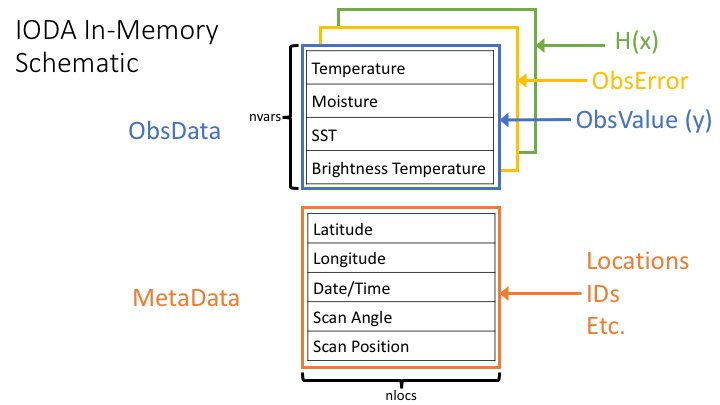
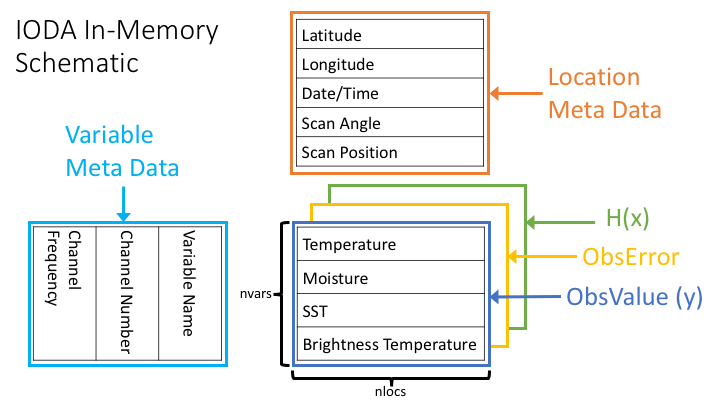
WIP: more progress with the interfaces section.

Changed region(s): [[0.0306, 0.0, 1.0, 1.0], [0.0917, 0.2963, 0.3056, 0.3556], [0.0917, 0.3852, 0.2444, 0.4444]]

diff --git a/docs/jedi-components/ioda/interface.rst b/docs/jedi-components/ioda/interface.rst
@@ -7,9 +7,12 @@ Background
 ----------
 
 IODA interacts with external observation data on one side and with the OOPS and UFO components of JEDI on the other side (:numref:`ioda-hlev-dflow`).
+On the observation data side there exist huge amounts of data, thus creating the need to pare these data down to a manageable size for JEDI during a particular DA run.
+The primary mechanism for accomplishing this is to filter out all of the observations that lie outside the current DA timing window, and present only that subset to be read into memory during a DA run.
 
-.. warning::
-   The IODA interfaces are newly formed and under much development at the time of the writing of this documentation, and as such are subject to change.
+There are many different types of observations that come with a variety of ways that the observation data are organized.
+To the extent that is feasible, it is desireable to devise a common data organization of which all of these observation types can employ.
+The memory representation of observation data in IODA has started with a prototype along these lines that successfully places a number of observation types (radiosonde, aircraft, AMSU-A, GNSSRO, plus several more) into a common organization.
 
 At this point, we have a prototype architecture defined for the handling of files containing observation data (:numref:`ioda-file-handling`).
 
@@ -28,7 +31,7 @@ This implementation is not quite in the form of the prototype architecture, but 
 Currently, we are using netcdf for the IODA Datafile format (subject to change) and we have a common netcdf writer in the ioda-converters with a collection of readers for the various observation data file formats.
 Work is in progress to evolve the current implementation to the prototype architecture.
 
-A prototype interface has been defined for access to observation data from the JEDI components OOPS and UFO.
+A prototype interface, using a common data organization (:numref:`ioda-inmem-schematic`, has been defined for access to observation data from the JEDI components OOPS and UFO.
 
 .. _ioda-inmem-schematic:
 .. figure:: images/IODA_InMemorySchematic.png
@@ -37,7 +40,10 @@ A prototype interface has been defined for access to observation data from the J
 
    Schematic view of the IODA in-memory represention
 
+Central to this scheme are the 2D arrays holding the osbervation data quantities (ObsValue, ObsError, H(x) in :numref:`ioda-inmem-schematic`).
 
+.. warning::
+   The IODA interfaces are newly formed and under much development at the time of the writing of this documentation, and as such are subject to change.
 
 External Observation Data
 -------------------------
